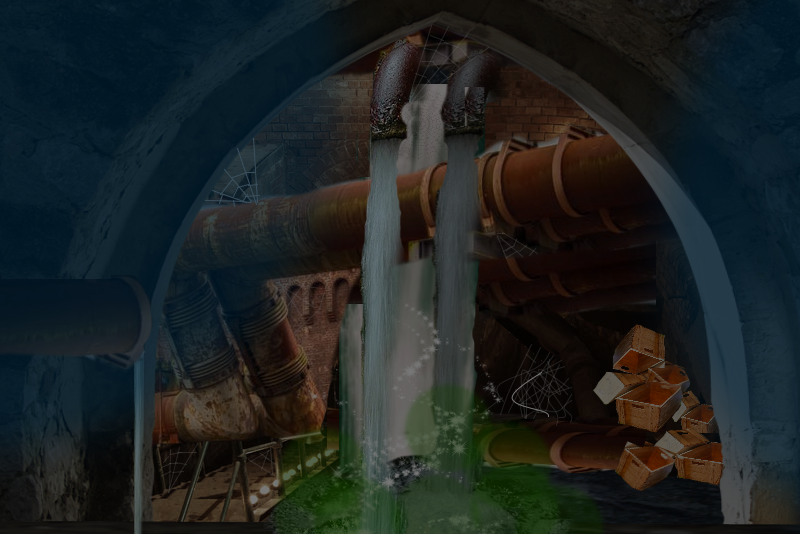
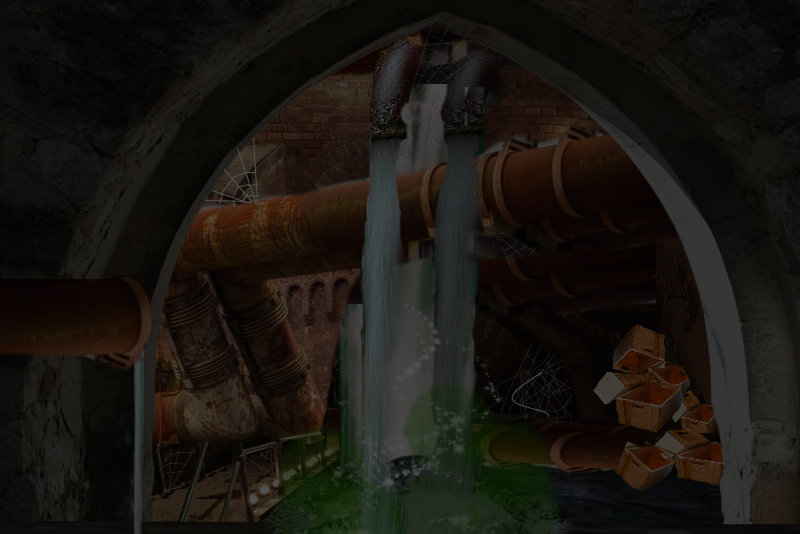
added rouge page content

diff --git a/public/html/rouge.html b/public/html/rouge.html
@@ -1,4 +1,4 @@
-!DOCTYPE html>
+<!DOCTYPE html>
 <html>
   <head>
     <meta charset="utf-8">
@@ -92,34 +92,33 @@
 <div class="container">
   <div class="row">
     <div class="col flex-unordered space">
-       <div class="medium-white-font text-center">Lords of War</div>
-
       <div class="paragraph-text">
-        <img class="imgPadding" src="../images/warrior.png" width="190px" style="float: left" />
-        <p> For as long as war has raged, heroes from every race have aimed to master the art of battle. Warriors combine strength, leadership, and a vast knowledge of arms and armor to wreak havoc in glorious combat. Some protect from the front lines with shields, locking down enemies while allies support the warrior from behind with spell and bow. Others forgo the shield and unleash their rage at the closest threat with a variety of deadly weapons.</p>
+        <img class="imgPadding" src="" width="190px" style="float: left" />
+        <div class="medium-white-font">Prowling Cutpurses</div>
+        <p> For rogues, the only code is the contract, and their honor is purchased in gold. Free from the constraints of a conscience, these mercenaries rely on brutal and efficient tactics. Lethal assassins and masters of stealth, they will approach their marks from behind, piercing a vital organ and vanishing into the shadows before the victim hits the ground.</p>
       </div>
 
   <div class="medium-white-font">Class Information</div>
       <div class="paragraph-text">
-        <p> Warriors equip themselves carefully for combat and engage their enemies head-on, letting attacks glance off their heavy armor. They use diverse combat tactics and a wide variety of weapon types to protect their more vulnerable allies. Warriors must carefully master their rage – the power behind their strongest attacks – in order to maximize their effectiveness in combat.
+        <p> Rogues often initiate combat with a surprise attack from the shadows, leading with vicious melee strikes. When in protracted battles, they utilize a successive combination of carefully chosen attacks to soften the enemy up for a killing blow. Rogues must take special care when selecting targets so that their combo attacks are not wasted, and they must be conscious of when to hide or flee if a battle turns against them.
 <ul>
 <li class="large-beige-text">Combat Roles</li>
-Tank, Damage
+Damage
 <div class="small-space"></div>
 <li class="large-beige-text">Resources</li>
-Health, Rage
+Health, Energy, Combo Points
 <div class="small-space"></div>
 <li class="large-beige-text">Armor Type</li>
 Plate, Shields
 <div class="small-space"></div>
 <li class="large-beige-text">Available Weapons</li>
-<li>Daggers, Fist Weapons, Axes, Maces, Swords, Polearms, Staves</li></p>
+<li>Daggers, Fist Weapons, One-Handed Axes, One-Handed Maces, One-Handed Swords</li></p>
       </div>
 <div class="medium-space"></div>
 
   <div class="medium-white-font">Specializations</div>
       <div class="paragraph-text">
-        <p> Warrior talents can improve their already considerable defenses with a shield, increase their deadliness with two-handed weapons, or bolster their savagery while dual-wielding.</p>
+        <p>Rogue talents can strengthen their ability to hide in shadows, kill foes with quick, deadly strikes, and survive in extended slugfests.</p>
       </div>
     </div>
 
@@ -135,14 +134,14 @@ Plate, Shields
     <div class="card-header" role="tab" id="headingOne">
       <h5 class="mb-0">
         <a data-toggle="collapse" data-parent="#accordion" href="#collapseOne" aria-expanded="true" aria-controls="collapseOne">
-          Tank
+          Melee Damage
         </a>
       </h5>
     </div>
 
     <div id="collapseOne" class="collapse show" role="tabpanel" aria-labelledby="headingOne">
       <div class="card-block">
-        Mighty warriors depend on their heavy armor, shields, and battle prowess to defend themselves and ensure enemies don’t focus on their softer-skinned allies.
+      By skillfully wielding dual-wielded weapons, rogues can deliver catastrophic damage to their targets.
       </div>
     </div>
   </div>
@@ -150,13 +149,13 @@ Plate, Shields
     <div class="card-header" role="tab" id="headingTwo">
       <h5 class="mb-0">
         <a class="collapsed" data-toggle="collapse" data-parent="#accordion" href="#collapseTwo" aria-expanded="false" aria-controls="collapseTwo">
-          Melee Damage
+          Stealth
         </a>
       </h5>
     </div>
     <div id="collapseTwo" class="collapse" role="tabpanel" aria-labelledby="headingTwo">
       <div class="card-block">
-       Weapon mastery is a staple of warrior training, and they are capable of delivering high damage with enormous two-handed weapons or by wielding two weapons.
+      Rogues sneak about the battlefield, hiding from enemies and delivering surprise attacks to the unwary when opportunity arises.
       </div>
     </div>
   </div>
@@ -164,13 +163,27 @@ Plate, Shields
     <div class="card-header" role="tab" id="headingThree">
       <h5 class="mb-0">
         <a class="collapsed" data-toggle="collapse" data-parent="#accordion" href="#collapseThree" aria-expanded="false" aria-controls="collapseThree">
-          Rage
+          Evasion
         </a>
       </h5>
     </div>
     <div id="collapseThree" class="collapse" role="tabpanel" aria-labelledby="headingThree">
       <div class="card-block">
-        As warriors deal or take damage, their rage grows, allowing them to deliver truly crushing attacks in the heat of battle
+        When endangered, rogues have many tools at their disposal to avoid their enemies’ gaze and, if necessary, their attacks.
+      </div>
+    </div>
+  </div>
+  <div class="">
+    <div class="card-header" role="tab" id="headingFour">
+      <h5 class="mb-0">
+        <a class="collapsed" data-toggle="collapse" data-parent="#accordion" href="#collapseFour" aria-expanded="false" aria-controls="collapseFour">
+          Combos
+        </a>
+      </h5>
+    </div>
+    <div id="collapseFour" class="collapse" role="tabpanel" aria-labelledby="headingFour">
+      <div class="card-block">
+      By planning and combining successive melee attacks, rogues can build up combo points that allow them to deliver devastating finishing blows in combat.
       </div>
     </div>
   </div>

diff --git a/public/css/rouge.css b/public/css/rouge.css
@@ -1,9 +1,14 @@
 body, html {
-background-color: black;
+  /* Permalink - use to edit and share this gradient: http://colorzilla.com/gradient-editor/#45484d+0,000000+100;Black+3D+%231 */
+background: rgb(69,72,77); /* Old browsers */
+background: -moz-linear-gradient(top, rgba(69,72,77,1) 0%, rgba(0,0,0,1) 100%); /* FF3.6-15 */
+background: -webkit-linear-gradient(top, rgba(69,72,77,1) 0%,rgba(0,0,0,1) 100%); /* Chrome10-25,Safari5.1-6 */
+background: linear-gradient(to bottom, rgba(69,72,77,1) 0%,rgba(0,0,0,1) 100%); /* W3C, IE10+, FF16+, Chrome26+, Opera12+, Safari7+ */
+filter: progid:DXImageTransform.Microsoft.gradient( startColorstr='#45484d', endColorstr='#000000',GradientType=0 ); /* IE6-9 */
 }
 
 #warrior-background {
-    background-image: url("../images/rouge-background.png");
+    background-image: url("../images/rouge-background-1.png");
     background-repeat: no-repeat;
     background-image: center center fixed;
     -webkit-background-size: cover;
@@ -14,7 +19,7 @@ background-color: black;
     color: #fff;
     font-weight: 400;
     font-size: 15px;
-     background-size: 100% 50%;
+     background-size: 100% 100%;
  }
 
  /*top navbar*/
